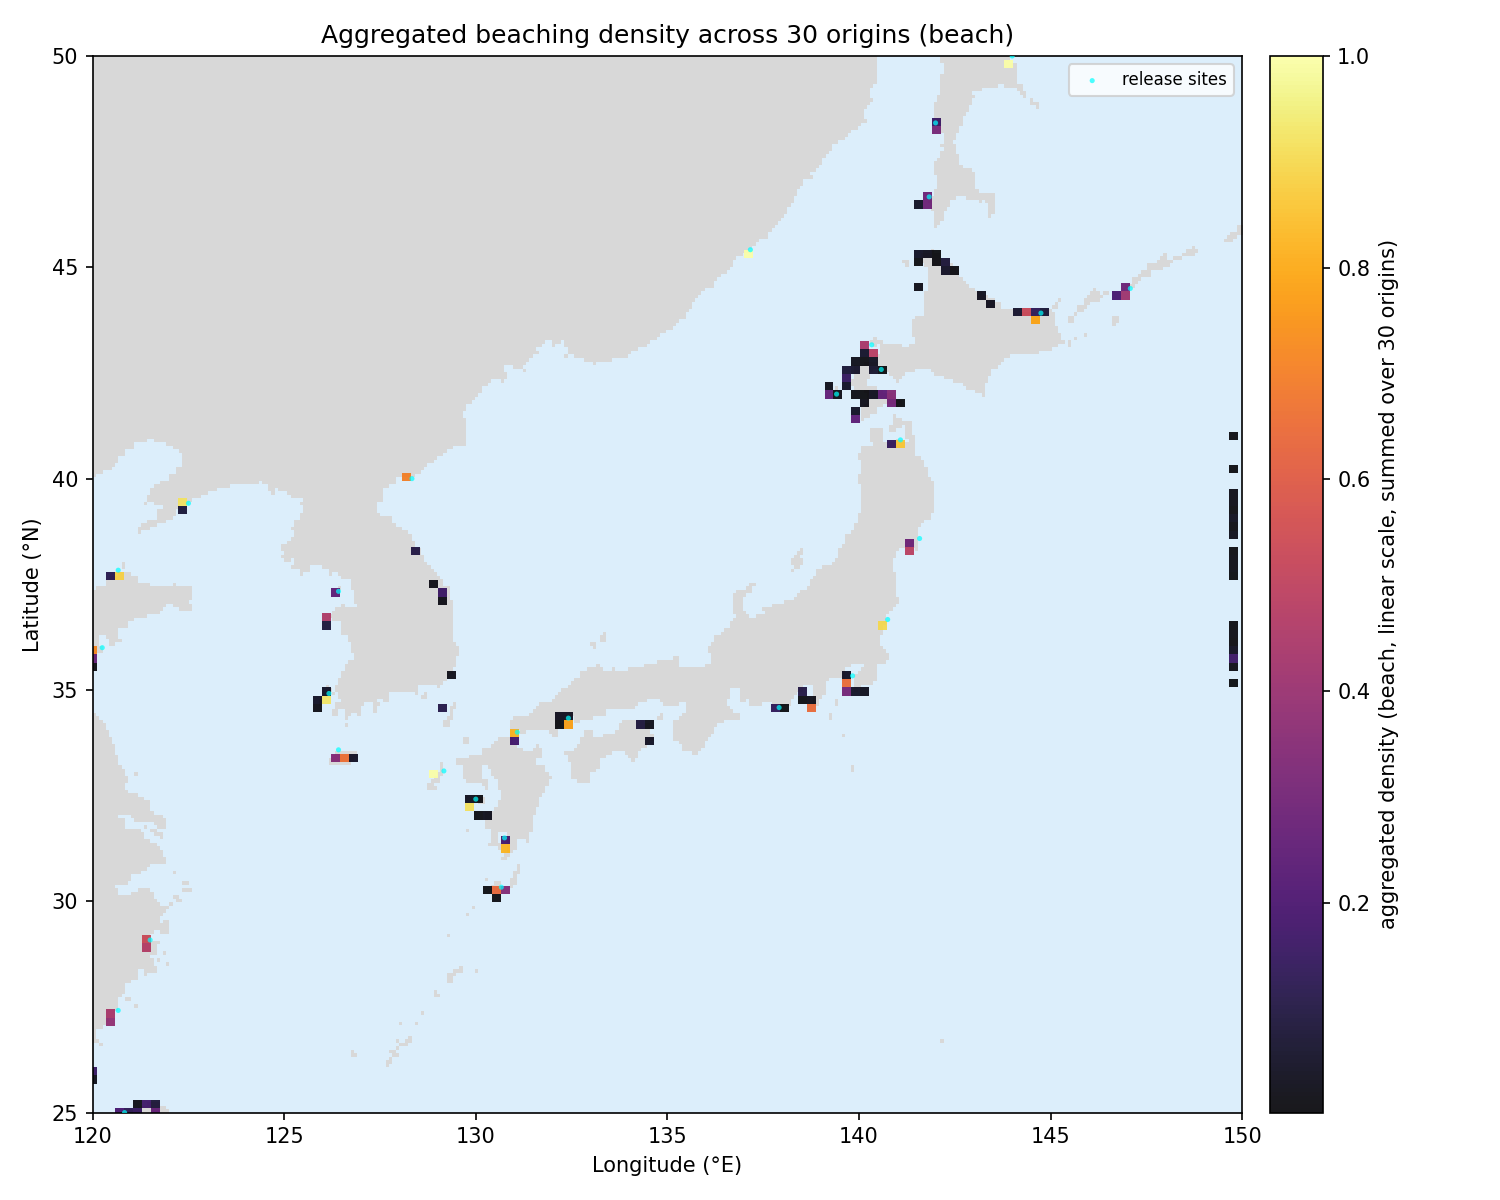
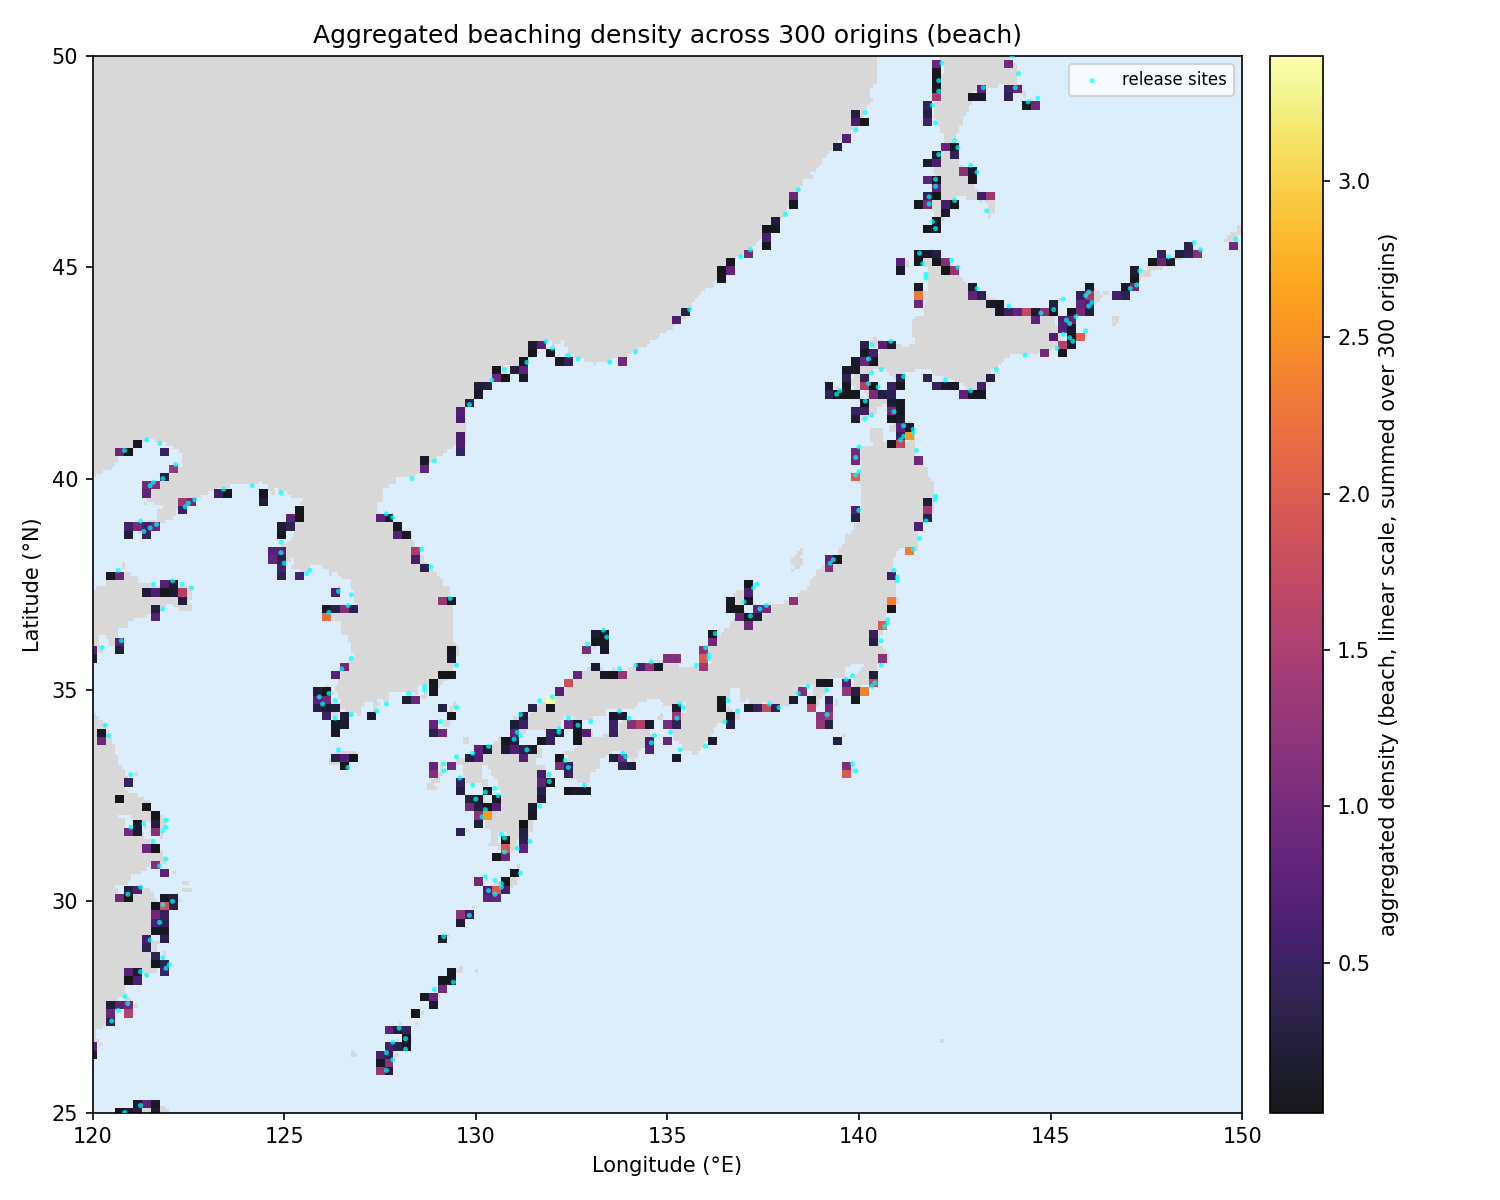
Adding era5 download script

diff --git a/data/era5_download.py b/data/era5_download.py
@@ -1,0 +1,40 @@
+"""
+ERA5 10m風速(u10, v10)のダウンロード。
+GLORYSと同じ領域(東経120-150, 北緯25-50)・期間(2018-2022)に合わせる。
+
+事前準備:
+  1. https://cds.climate.copernicus.eu/ でアカウント作成
+  2. Personal Access Token を取得
+  3. ~/.cdsapirc に以下を保存:
+       url: https://cds.climate.copernicus.eu/api
+       key: <あなたのトークン>
+  4. pip install cdsapi --break-system-packages
+
+使い方: python download_era5_wind.py
+"""
+import cdsapi
+
+c = cdsapi.Client()
+
+# GLORYSと解像度感を揃えるため、まずは日次相当(6時間毎)を取得。
+# windageの効果を見るだけなら日次平均でも十分だが、季節風のような
+# 数日スケールの現象を捉えるには6時間毎の方が無難。
+c.retrieve(
+    "reanalysis-era5-single-levels",
+    {
+        "product_type": ["reanalysis"],
+        "variable": [
+            "10m_u_component_of_wind",
+            "10m_v_component_of_wind",
+        ],
+        "year": ["2018", "2019", "2020", "2021", "2022"],
+        "month": [f"{m:02d}" for m in range(1, 13)],
+        "day": [f"{d:02d}" for d in range(1, 32)],
+        "time": ["00:00", "06:00", "12:00", "18:00"],  # 6時間毎
+        # area: [North, West, South, East]  ※CMEMSとは順序が違うので注意
+        "area": [50, 120, 25, 150],
+        "data_format": "netcdf",
+    },
+    "data/raw/era5_2018_2022_wind_120-150E_25-50N.nc",
+)
+print("done")
